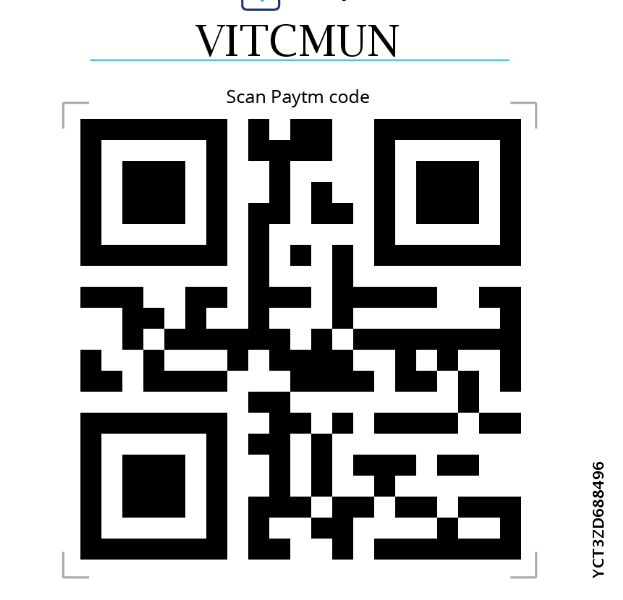
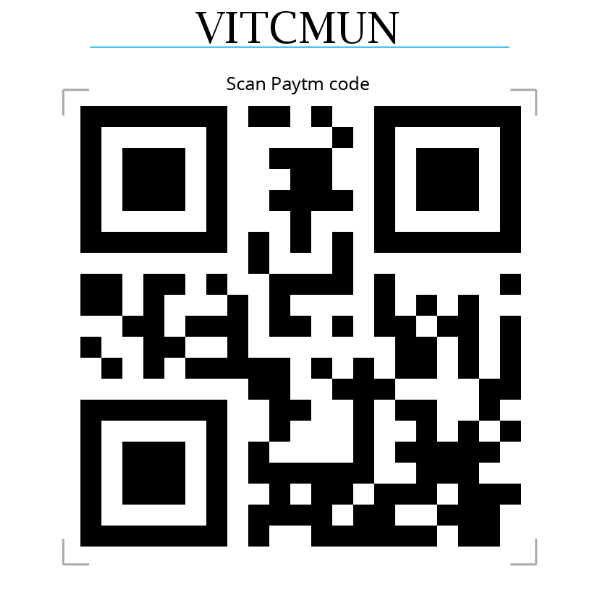
added new qr code

diff --git a/payment_select.php b/payment_select.php
@@ -173,8 +173,8 @@
                         <h2 class="text-center">Hey <?php echo htmlentities(ucfirst($first_name[0])); ?></h2>
 
                         <p class="text-center">
-                            <strong>"We are really sorry, due to some technical issue, we are not accepting the payments right now."</strong>
-                            <br><strong>Please drop us a mail at vitcmun2017@gmail.com and we will let you know as soon as the portal begins again.</strong>                
+                            <strong>"Please scan the QR code in Paytm to pay the delegate fee of Rs. 1330. Please enter the amount as rs. 1330 only, any amount lesser than that may lead to rejection of your application."</strong>
+                            <br><strong>Please enter your name in the description section of Paytm.</strong>                
                         </p>
 
                     </div><!-- col-lg-12 -->
@@ -187,7 +187,7 @@
 
                         <div class="col-lg-12 col-md-12 col-sm-12 text-center">
                             <div class="col-md-4"></div>
-                            <div style="display:none;" class="col-md-4">
+                            <div class="col-md-4">
                                 <img style="height:50%; width:50%;" src="img/qr.png">                                
                             </div>
                                 <form action="<?php echo $action; ?>" method="post" name="payuForm">
